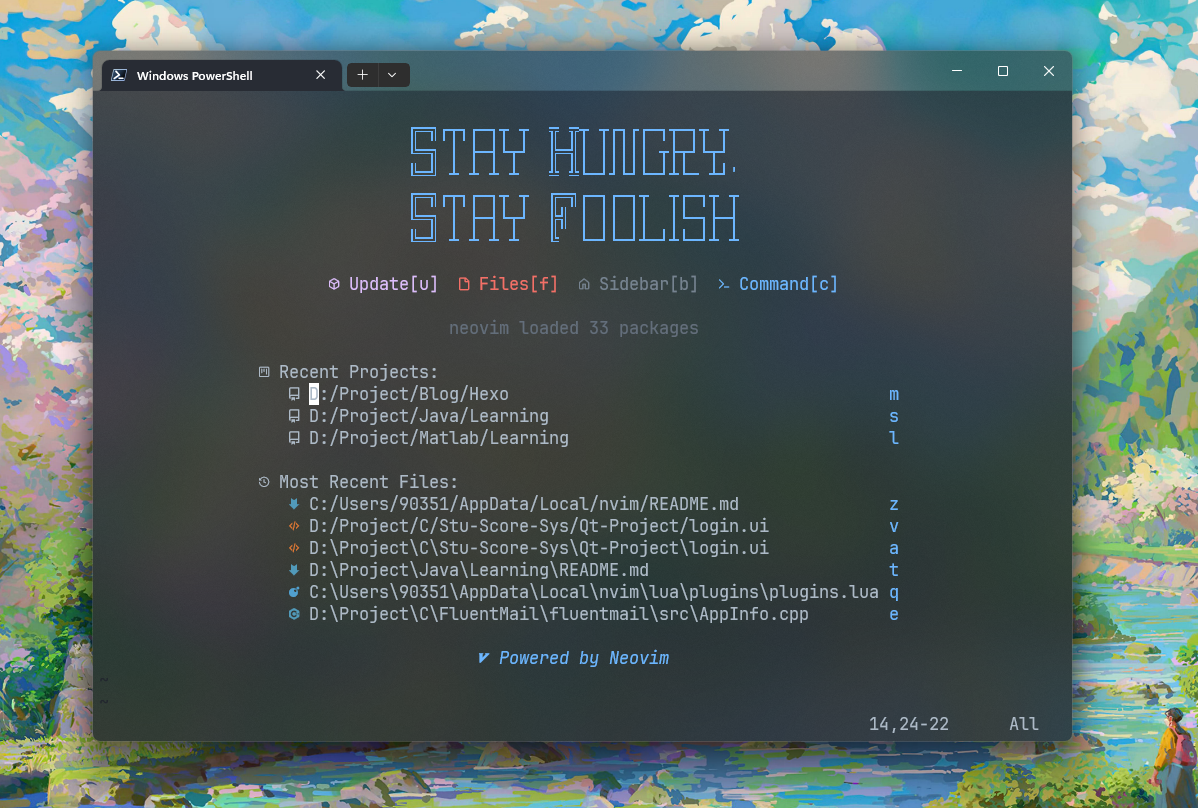
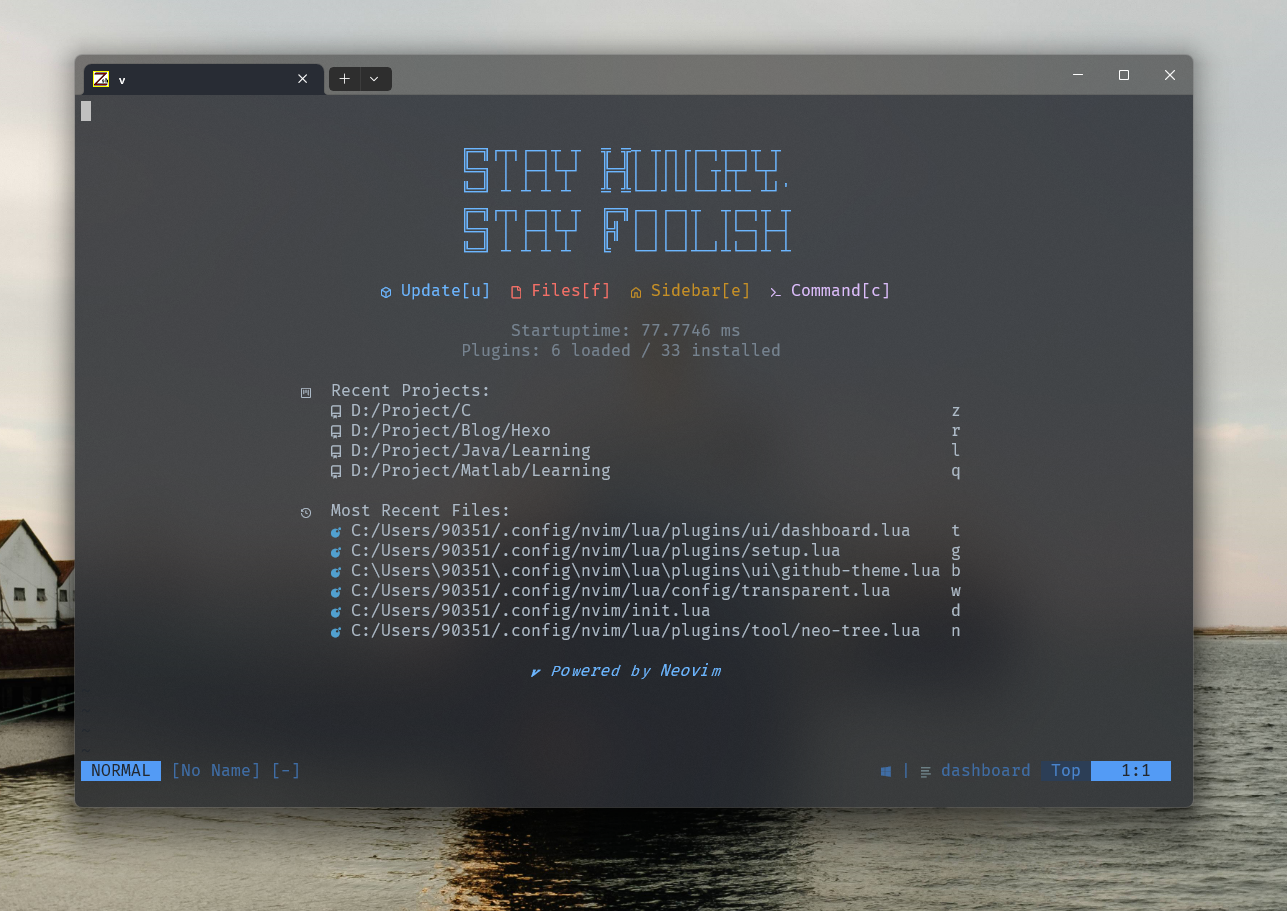
docs: :memo: update screenshots

diff --git a/README.md b/README.md
@@ -60,7 +60,7 @@ Find symbol & file & help:
 
 Pressing <kbd>Space</kbd> in normal mode will show you some parts of the keybindings.
 
-And many more. See [`Keymaps`](lua/core/keymaps.lua) for more.
+And many more. See [`Keymaps`](lua/config/keymaps.lua) for more.
 
 ## Installing Custom Plugins
 
